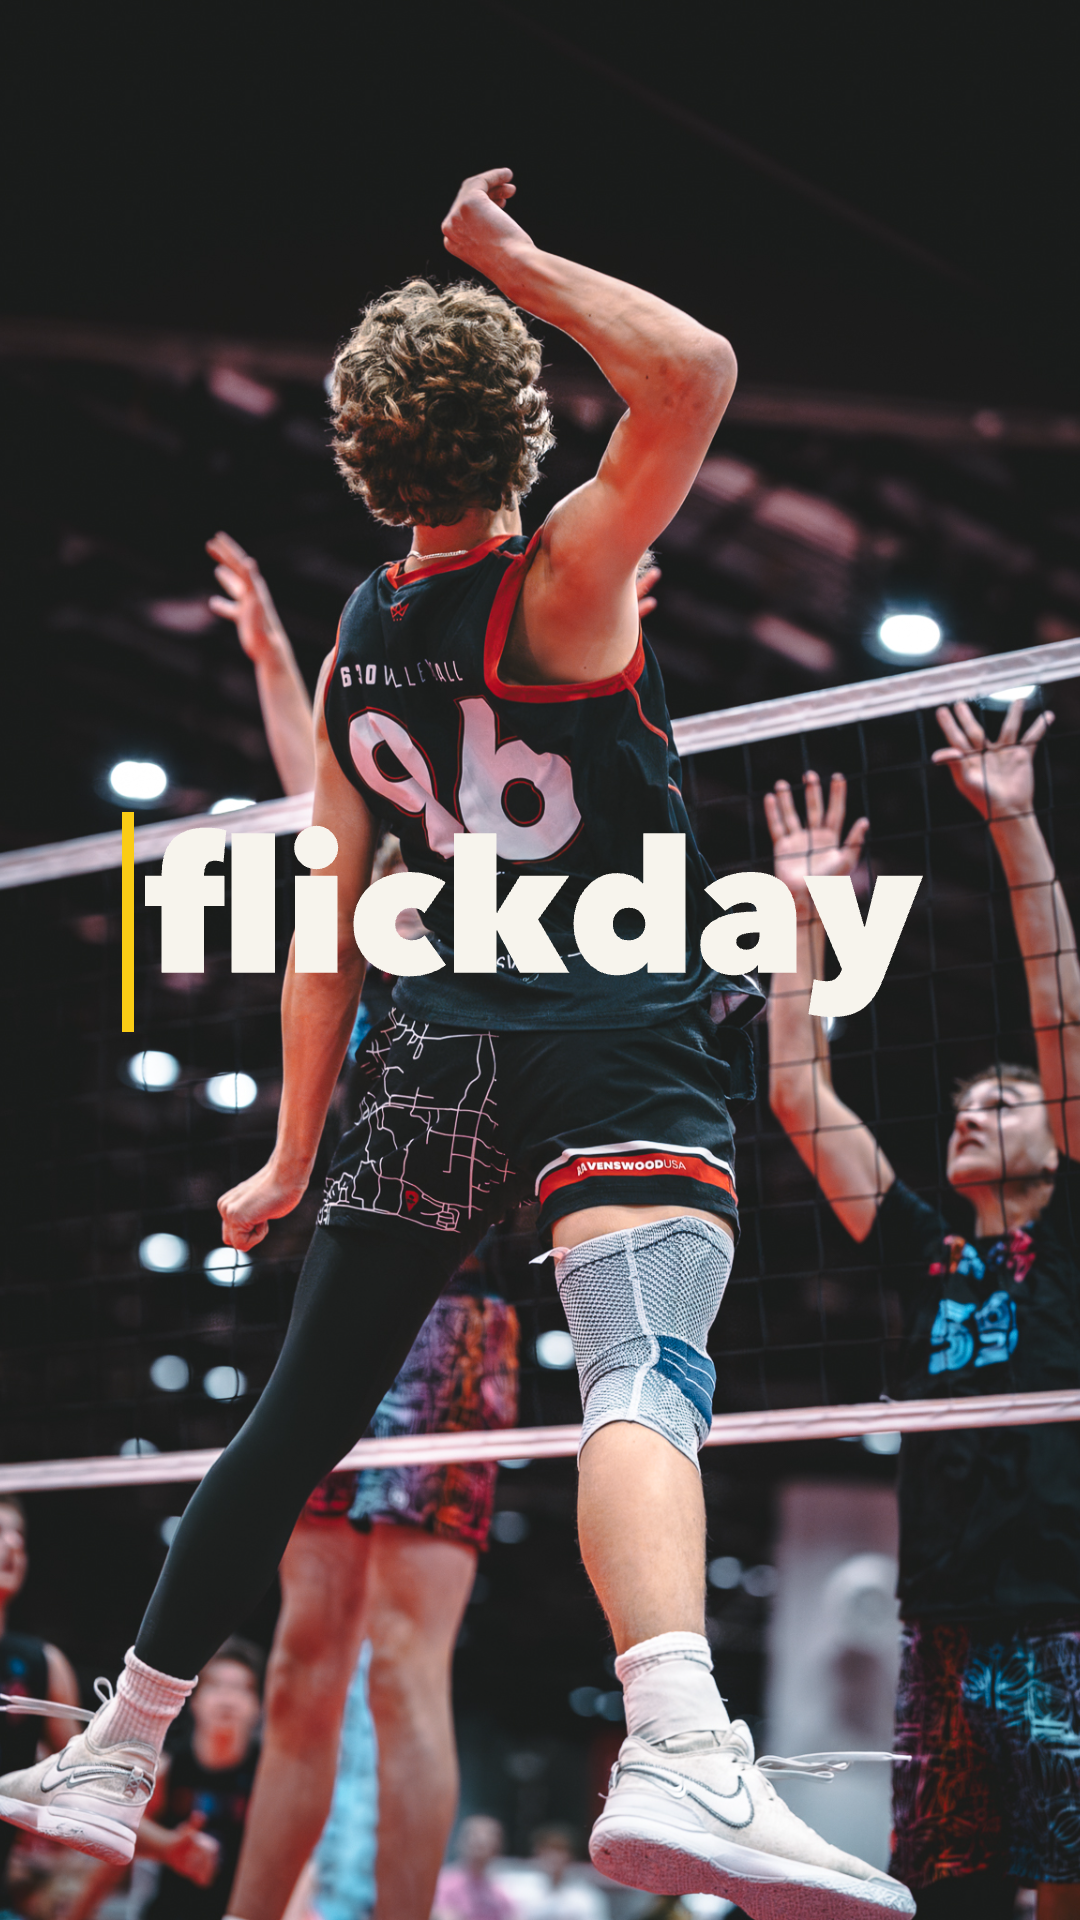
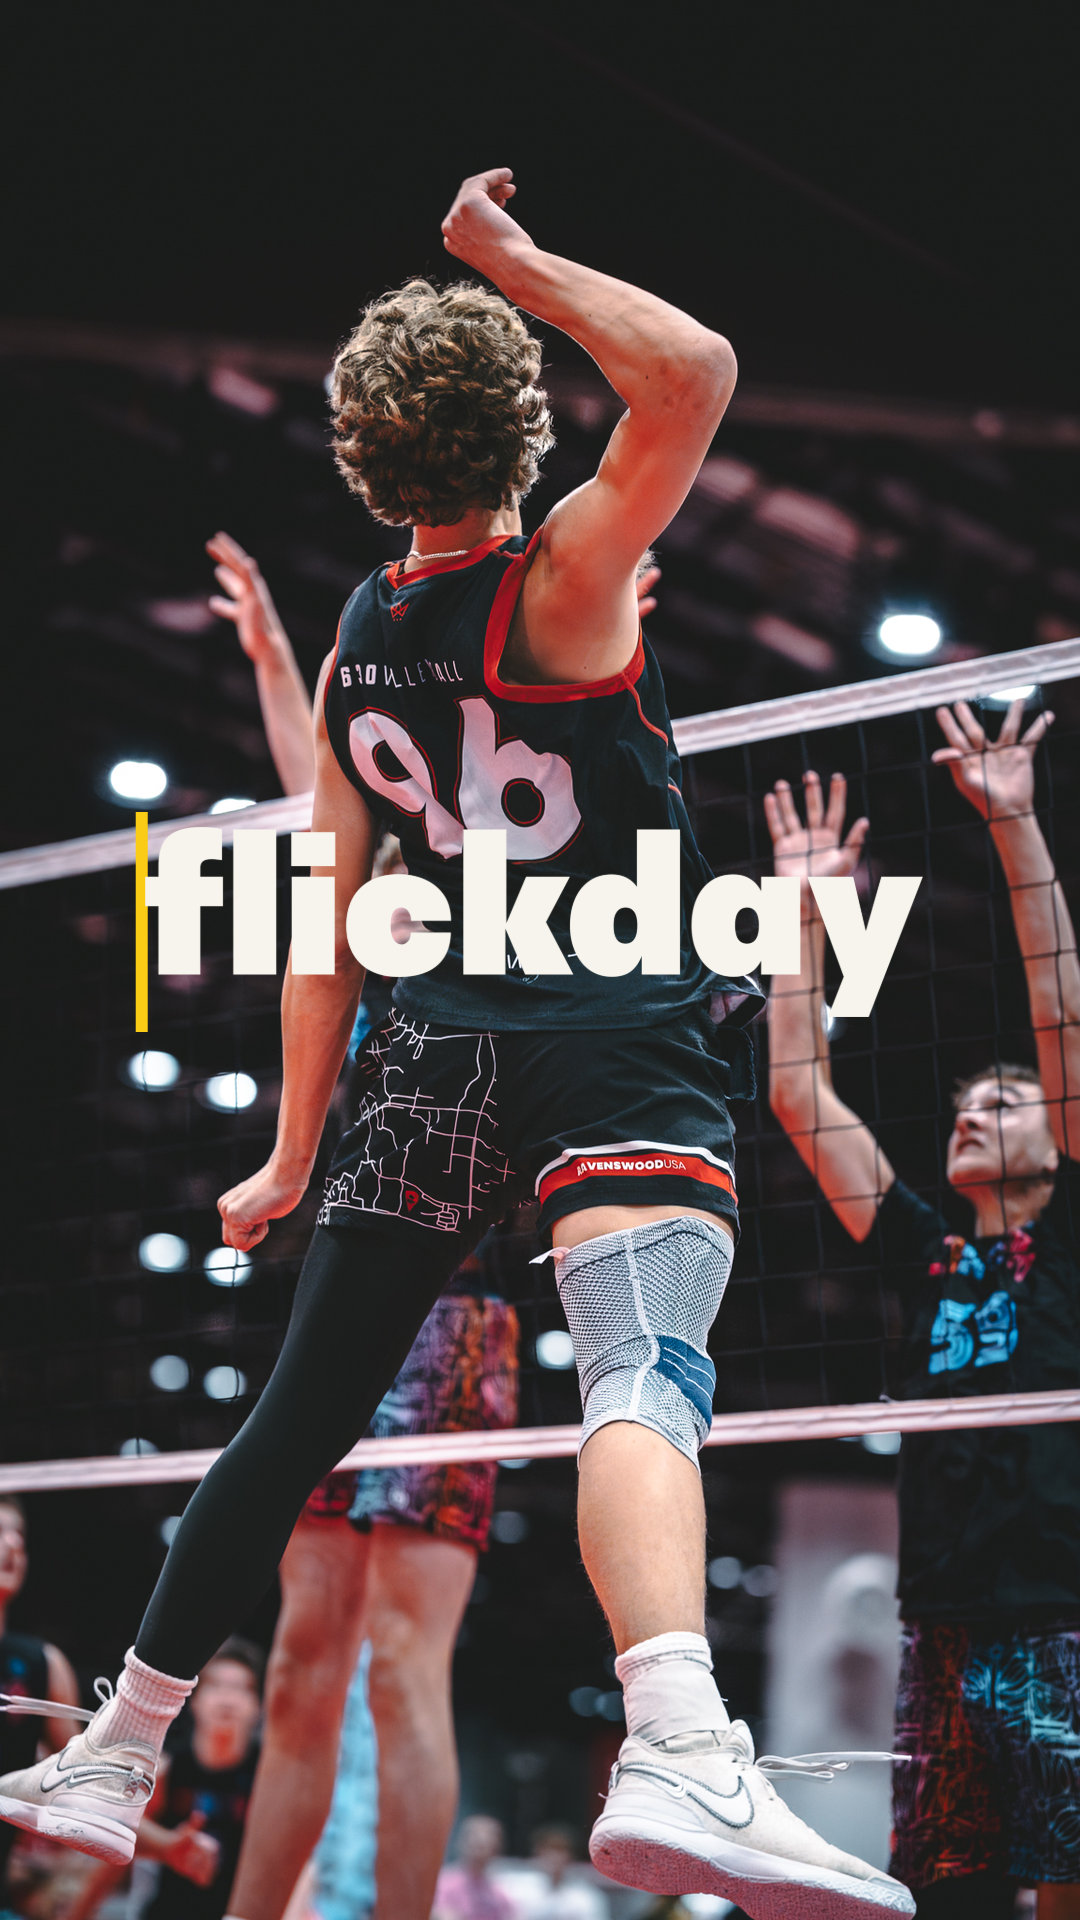
feat(motion): Peridot wordmark in the overlay kit's sting
The overlay kit's wordmark sting showed its "core" mark, outlined SVGs of
an earlier typeface. The wordmark has been locked to Peridot PE 950 since
2026-07-27, and nino asked for the kit to switch too.

- scripts/build-sting-wordmark.mjs also writes the whole mark as PNG in
  the kit's three colorways: warm white #F7F4ED (default, dark footage),
  white, and near black #111318 (light footage). It renders them at
  1600 px for a 778 px slot. The core SVGs are removed, so the
  wordmarkSrc variable cannot point back at the old letterforms.
- compositions/wordmark-sting.html and its root mirror index.html keep
  the kit's validated geometry: lockup at 122,812, seam 12x220. The mark
  sits 11 px after the seam at 778x190, so the ink lands where the old
  ink was: 776x189 at 146,828, against the old 778x192 at 145,825.
  Timing is unchanged.
- proof/wordmark/ is regenerated at the shot plan's proof times
  (0, 0.24, 0.56, 2.5, 2.96 s) plus the footage composite.
- shot-plan, README, BRIEF and the asset ledger now name Peridot.
- hyperframes pin 0.7.64 -> 0.8.150. The kit passes check. The lower
  third and stamp pass in isolation, each with one new Studio-layout
  advisory that does not affect renders.

renders/flickday-wordmark-sting.mov still shows the core mark. The
kit's renders are approval-gated.

diff --git a/motion/flickday-overlay-kit/compositions/wordmark-sting.html b/motion/flickday-overlay-kit/compositions/wordmark-sting.html
@@ -1,6 +1,6 @@
 <!doctype html>
 <html lang="en" data-composition-variables='[
-  {"id":"wordmarkSrc","type":"string","label":"Wordmark asset","default":"assets/brand/flickday-core-color.svg"},
+  {"id":"wordmarkSrc","type":"string","label":"Wordmark asset","default":"assets/brand/flickday-wordmark-color.png"},
   {"id":"accent","type":"color","label":"Accent","default":"#FACC15"}
 ]'>
   <head>
@@ -15,8 +15,8 @@
       .clip { position: absolute; inset: 0; width: 100%; height: 100%; }
       .lockup { position: absolute; left: 122px; top: 812px; width: 818px; height: 220px; display: flex; align-items: center; }
       .seam { display: block; flex: 0 0 12px; width: 12px; height: 220px; background: var(--accent, #FACC15); transform-origin: 50% 50%; will-change: transform, opacity; }
-      .mark-window { display: block; width: 800px; height: 216px; overflow: hidden; --reveal: 100%; clip-path: inset(0 calc(100% - var(--reveal)) 0 0); will-change: transform, opacity, clip-path; }
-      .wordmark { display: block; width: 800px; height: 216px; object-fit: contain; object-position: left center; }
+      .mark-window { display: block; margin-left: 11px; width: 778px; height: 190px; overflow: hidden; --reveal: 100%; clip-path: inset(0 calc(100% - var(--reveal)) 0 0); will-change: transform, opacity, clip-path; }
+      .wordmark { display: block; width: 778px; height: 190px; object-fit: contain; object-position: left center; }
     </style>
   </head>
   <body>
@@ -25,7 +25,7 @@
         <div id="wordmark-lockup" class="lockup">
           <i id="wordmark-seam" class="seam" aria-hidden="true"></i>
           <div id="wordmark-window" class="mark-window">
-            <img id="wordmark" class="wordmark" data-var-src="wordmarkSrc" src="assets/brand/flickday-core-color.svg" alt="Flickday" />
+            <img id="wordmark" class="wordmark" data-var-src="wordmarkSrc" src="assets/brand/flickday-wordmark-color.png" alt="Flickday" />
           </div>
         </div>
       </section>
@@ -40,6 +40,7 @@
       tl.to("#wordmark-seam", { x: 0, duration: 0.14, ease: "power2.out" }, 2.56);
       tl.to("#wordmark-window", { "--reveal": "0%", x: -24, opacity: 0, duration: 0.34, ease: "power3.in" }, 2.72);
       tl.to("#wordmark-seam", { scaleY: 0, opacity: 0, duration: 0.18, ease: "power3.in" }, 2.92);
+      window.__timelines = window.__timelines || {};
       window.__timelines["wordmark-sting"] = tl;
       tl.seek(0);
     </script>

diff --git a/motion/flickday-overlay-kit/index.html b/motion/flickday-overlay-kit/index.html
@@ -1,6 +1,6 @@
 <!doctype html>
 <html lang="en" data-composition-variables='[
-  {"id":"wordmarkSrc","type":"string","label":"Wordmark asset","default":"assets/brand/flickday-core-color.svg"},
+  {"id":"wordmarkSrc","type":"string","label":"Wordmark asset","default":"assets/brand/flickday-wordmark-color.png"},
   {"id":"accent","type":"color","label":"Accent","default":"#FACC15"}
 ]'>
   <head>
@@ -15,8 +15,8 @@
       .clip { position: absolute; inset: 0; width: 100%; height: 100%; }
       .lockup { position: absolute; left: 122px; top: 812px; width: 818px; height: 220px; display: flex; align-items: center; }
       .seam { display: block; flex: 0 0 12px; width: 12px; height: 220px; background: var(--accent, #FACC15); transform-origin: 50% 50%; will-change: transform, opacity; }
-      .mark-window { display: block; width: 800px; height: 216px; overflow: hidden; --reveal: 100%; clip-path: inset(0 calc(100% - var(--reveal)) 0 0); will-change: transform, opacity, clip-path; }
-      .wordmark { display: block; width: 800px; height: 216px; object-fit: contain; object-position: left center; }
+      .mark-window { display: block; margin-left: 11px; width: 778px; height: 190px; overflow: hidden; --reveal: 100%; clip-path: inset(0 calc(100% - var(--reveal)) 0 0); will-change: transform, opacity, clip-path; }
+      .wordmark { display: block; width: 778px; height: 190px; object-fit: contain; object-position: left center; }
     </style>
   </head>
   <body>
@@ -25,7 +25,7 @@
         <div id="wordmark-lockup" class="lockup">
           <i id="wordmark-seam" class="seam" aria-hidden="true"></i>
           <div id="wordmark-window" class="mark-window">
-            <img id="wordmark" class="wordmark" data-var-src="wordmarkSrc" src="assets/brand/flickday-core-color.svg" alt="Flickday" />
+            <img id="wordmark" class="wordmark" data-var-src="wordmarkSrc" src="assets/brand/flickday-wordmark-color.png" alt="Flickday" />
           </div>
         </div>
       </section>
@@ -40,6 +40,7 @@
       tl.to("#wordmark-seam", { x: 0, duration: 0.14, ease: "power2.out" }, 2.56);
       tl.to("#wordmark-window", { "--reveal": "0%", x: -24, opacity: 0, duration: 0.34, ease: "power3.in" }, 2.72);
       tl.to("#wordmark-seam", { scaleY: 0, opacity: 0, duration: 0.18, ease: "power3.in" }, 2.92);
+      window.__timelines = window.__timelines || {};
       window.__timelines["wordmark-sting"] = tl;
       tl.seek(0);
     </script>

diff --git a/motion/flickday-overlay-kit/README.md b/motion/flickday-overlay-kit/README.md
@@ -1,6 +1,6 @@
 # Flickday overlay kit — HyperFrames pilot
 
-Three deterministic 1080×1920 transparent motion assets for CapCut and other editors. The kit uses the unchanged Flickday core wordmark plus one repeatable editorial device: a narrow yellow selection seam.
+Three deterministic 1080×1920 transparent motion assets for CapCut and other editors. The kit uses the locked Flickday wordmark (Peridot PE 950, lowercase) plus one repeatable editorial device: a narrow yellow selection seam.
 
 ## Compositions
 
@@ -43,7 +43,7 @@ npm run render:stamp
 For a customized lower third:
 
 ```bash
-npx --yes hyperframes@0.7.64 render . \
+npx --yes hyperframes@0.8.150 render . \
   --composition compositions/player-lower-third.html \
   --format mov --quality high \
   --variables '{"playerName":"PLAYER NAME","playerDetail":"12 · OUTSIDE"}' \
@@ -55,7 +55,8 @@ Import the MOV as an overlay in CapCut. If an editor mishandles MOV alpha, rende
 ## QA status
 
 - Project-wide lint: 0 errors, 0 warnings.
-- Wordmark sting browser/runtime/layout/motion check: passed at 0.00, 0.24, 0.56, 2.50, and 2.96 seconds.
+- Wordmark sting, switched to the Peridot wordmark on 2026-10-12 (hyperframes 0.8.150): check passed; proof frames at 0.00, 0.24, 0.56, 2.50, and 2.96 seconds are in `proof/wordmark/`.
+- Player lower-third and highlight stamp re-checked in isolation on 0.8.150 on 2026-10-12: passed, with one new advisory each (`nested_structure_needs_subcomposition`, a Studio timeline-layout hint that does not affect renders). Their earlier per-time checks follow.
 - Player lower-third isolated check: passed at 0.00, 0.22, 0.70, 2.76, and 4.08 seconds.
 - Highlight stamp isolated check: passed at 0.00, 0.12, 0.52, 1.40, and 1.86 seconds.
 - Final MOV rendering is intentionally approval-gated.

diff --git a/motion/flickday-overlay-kit/assets/index.md b/motion/flickday-overlay-kit/assets/index.md
@@ -2,12 +2,14 @@
 
 | Asset | Source | Use | Notes |
 |---|---|---|---|
-| `brand/flickday-core-color.svg` | `flickdaymedia/flickday-assets/brand/modular-wordmarks/` | dark-footage wordmark | outlined vector; warm white |
-| `brand/flickday-core-white.svg` | same | high-contrast wordmark | outlined vector; white |
-| `brand/flickday-core-black.svg` | same | light-footage wordmark | outlined vector; near-black |
+| `brand/flickday-wordmark-color.png` | `scripts/build-sting-wordmark.mjs` (repo root) | dark-footage wordmark (default) | Peridot PE 950; warm white `#F7F4ED`; 1600 px PNG |
+| `brand/flickday-wordmark-white.png` | same | high-contrast wordmark | Peridot PE 950; white; 1600 px PNG |
+| `brand/flickday-wordmark-black.png` | same | light-footage wordmark | Peridot PE 950; near black `#111318`; 1600 px PNG |
 | `proof-footage.jpg` | `flickdaymedia/site/images/gallery/portfolio-49.jpg` | proof composites only | local sports photo; not embedded in alpha exports |
 | `vendor/gsap.min.js` | npm `gsap@3.14.2` | deterministic local animation runtime | copied locally so renders do not depend on a CDN |
 | `fonts/montserrat-900.woff2` | HyperFrames deterministic font cache | display copy | bundled locally for offline renders |
 | `fonts/inter-800.woff2` | HyperFrames deterministic font cache | compact metadata | bundled locally for offline renders |
+
+The wordmark ships as PNG, not SVG: Peridot is licensed for live text, not for embedded outlines (BRAND-PRIORS.md). The earlier core SVGs were a different typeface and are removed.
 
 No web search, generation provider, or remote runtime asset is required for this pilot.

diff --git a/motion/flickday-overlay-kit/BRIEF.md b/motion/flickday-overlay-kit/BRIEF.md
@@ -12,7 +12,7 @@ Build a small, reusable motion-graphics production layer for Flickday Media. The
 
 - Grassroots sports media: raw, fast, player-first, courtside rather than corporate.
 - Palette: black `#000000`, Flickday yellow `#FACC15`, white `#FFFFFF`, dark gray `#111111`.
-- Use the established lowercase core wordmark unchanged.
+- Use the locked lowercase wordmark unchanged: Peridot PE 950 (locked 2026-07-27). The kit switched from the earlier core mark on 2026-10-12.
 - Use editorial timing, crop seams, sharp rules, and a selected-moment hit as the recurring graphic device.
 - Do not use the rejected cut-`f`, a reel, a filmstrip, or a multi-icon wordmark.
 - Avoid generic app-card styling, glossy 3D effects, gratuitous bounce, and faux-cinematic nostalgia.
